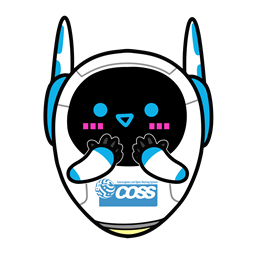
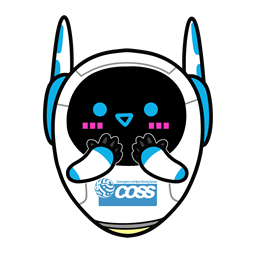
Sharp rendering on all displays
- Canvas internal resolution now matches display size x devicePixelRatio
- Remove CSS pixelated upscaling of game/card canvases
- Regenerate koai assets: background removal at full res, then downscale
- Cache-bust css/js references

diff --git a/js/game.js b/js/game.js
@@ -9,11 +9,23 @@ const GROUND_Y = 200;
 
 const canvas = document.getElementById('game');
 const ctx = canvas.getContext('2d');
-const SCALE = 2; // 내부 렌더 배율 — 커스텀 이미지가 깨져 보이지 않도록 2배 해상도로 그린다
-canvas.width = W * SCALE;
-canvas.height = H * SCALE;
-ctx.scale(SCALE, SCALE);
-ctx.imageSmoothingEnabled = false;
+
+// 표시 크기 × 기기 픽셀 비율에 맞춰 내부 해상도를 잡아 어떤 화면에서도 1:1로 선명하게 렌더
+let fittedKey = '';
+function fitCanvas() {
+  const dpr = Math.min(window.devicePixelRatio || 1, 3);
+  const cssW = canvas.clientWidth || canvas.parentElement.clientWidth || W;
+  const key = `${cssW}x${dpr}`;
+  if (key === fittedKey) return;
+  fittedKey = key;
+  const scale = Math.max(1, Math.min(4, (cssW * dpr) / W));
+  canvas.width = Math.round(W * scale);
+  canvas.height = Math.round(H * scale);
+  ctx.setTransform(scale, 0, 0, scale, 0, 0);
+  ctx.imageSmoothingEnabled = false;
+}
+fitCanvas();
+window.addEventListener('resize', fitCanvas);
 
 // 벡터풍 커스텀 이미지는 스무딩을 켜고, 코드로 그린 픽셀 스프라이트는 끈 채로 그린다
 function drawSprite(img, smooth, x, y, w, h) {
@@ -341,6 +353,7 @@ function loop(t) {
   const dt = lastT ? t - lastT : 16.7;
   lastT = t;
   const f = Math.min(dt / 16.7, 2.5); // 60fps 기준 배속 팩터
+  fitCanvas(); // 레이아웃/배율 변경 감지 (같으면 즉시 반환)
   update(f);
   draw();
   requestAnimationFrame(loop);

diff --git a/index.html b/index.html
@@ -5,7 +5,7 @@
   <meta name="viewport" content="width=device-width, initial-scale=1.0, maximum-scale=1.0, user-scalable=no">
   <title>CO-SHOW 코아이 러너</title>
   <meta name="description" content="CO-SHOW 미니게임 — 코아이와 함께 달리며 바나나를 모아보세요!">
-  <link rel="stylesheet" href="css/style.css">
+  <link rel="stylesheet" href="css/style.css?v=3">
 </head>
 <body>
   <div id="wrap">
@@ -17,7 +17,7 @@
       <!-- 시작 화면 -->
       <div id="startScreen" class="overlay">
         <div class="pixel-panel">
-          <canvas id="preview" style="image-rendering:pixelated"></canvas>
+          <canvas id="preview"></canvas>
           <p class="big">코아이 러너</p>
           <p class="hint">탭/스페이스로 점프!<br>장애물을 피하고 바나나를 모으세요<br>(더블점프 가능)</p>
           <p style="margin:10px 0 6px">
@@ -47,6 +47,6 @@
     </footer>
   </div>
 
-  <script type="module" src="js/game.js"></script>
+  <script type="module" src="js/game.js?v=3"></script>
 </body>
 </html>

diff --git a/css/style.css b/css/style.css
@@ -40,14 +40,12 @@ h1.title {
   border: 4px solid #41a6f6;
   box-shadow: 0 0 0 4px #1a1c2c, 0 0 0 8px #29366f;
   background: #a2dcff;
-  image-rendering: pixelated;
 }
 
 canvas#game {
   display: block;
   width: 100%;
   height: auto;
-  image-rendering: pixelated;
   touch-action: none;
 }
 
@@ -111,7 +109,6 @@ input#nickname {
 canvas#cardCanvas {
   width: 216px;
   height: auto;
-  image-rendering: pixelated;
   border: 3px solid #10121f;
   box-shadow: 4px 4px 0 #10121f;
 }
